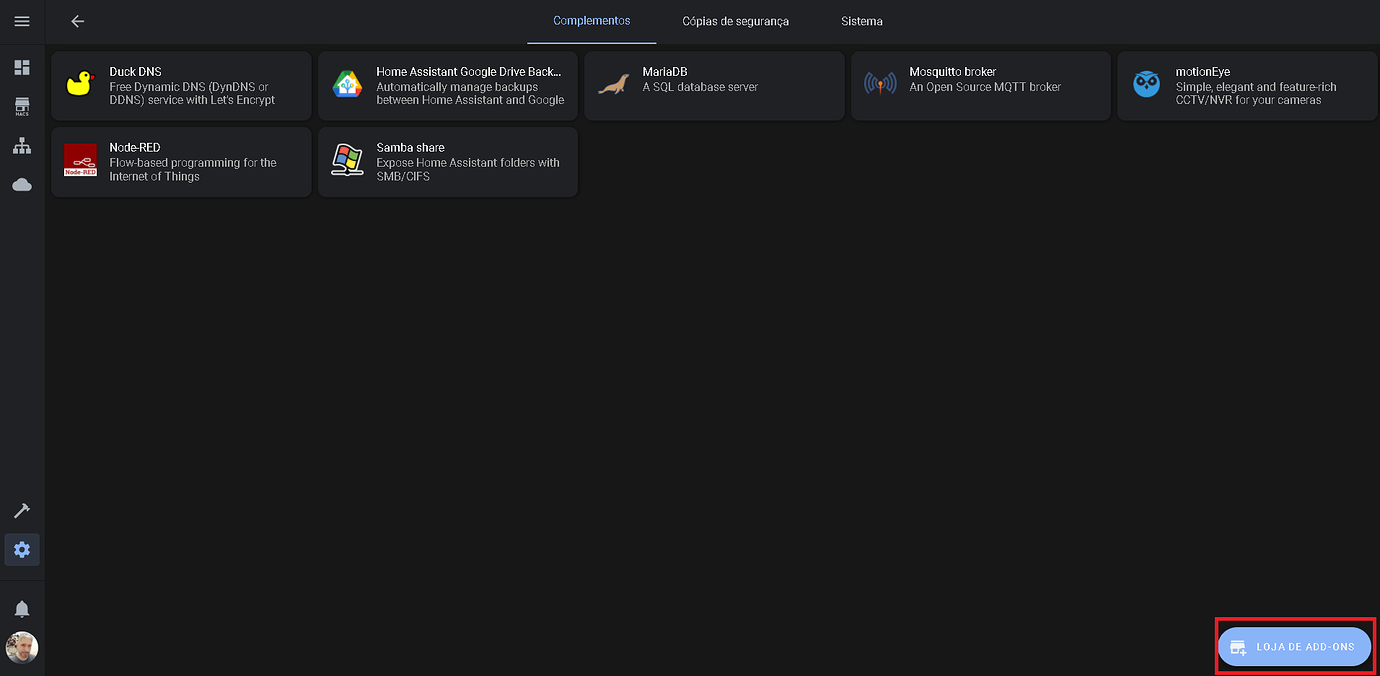
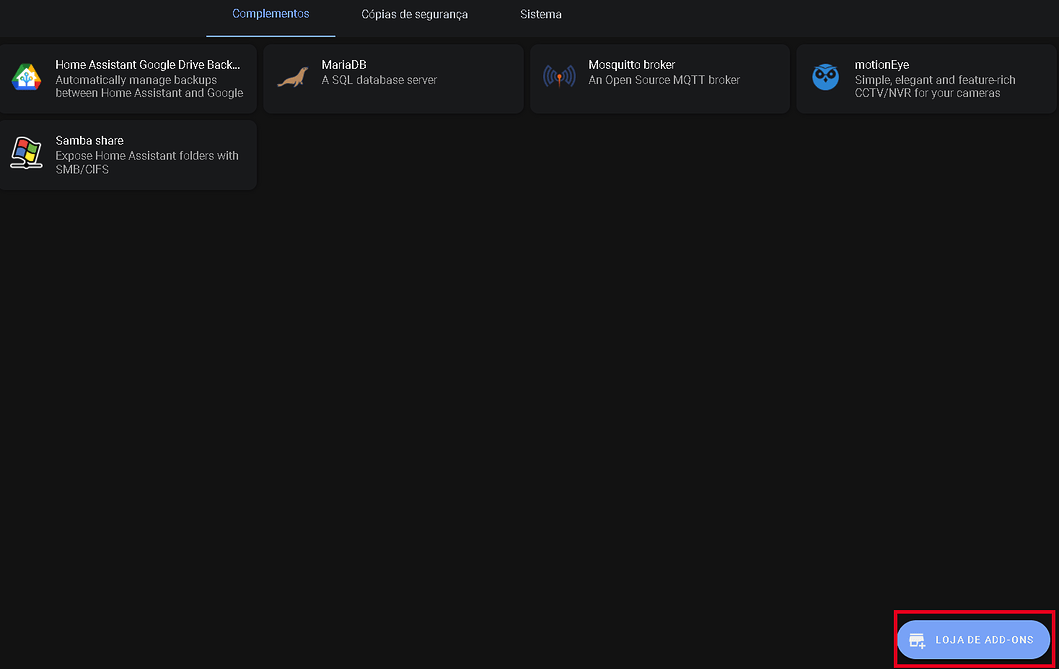
v41 img

diff --git a/DOCS.md b/DOCS.md
@@ -4,33 +4,33 @@ Before starting the Home Assistant installation, connect the your UPS USB port t
 
 To get started, go to **Settings**, click on **Add-ons, Backups and Supervisor**.
 
-<img src="https://github.com/dmslabsbr/smsUps/raw/master/img/i1.png" alt="Hass.io screen Add a new repository." width="500" /> 
+<img src="https://github.com/dmslabsbr/smsUps/raw/master/img/i1.png" alt="Hass.io screen Add a new repository." width="700" /> 
 
 Go to “**Add-on Store**” in the lower right corner.
 
-<img src="https://github.com/dmslabsbr/smsUps/raw/master/img/i2.png" alt="Hass.io screen Add a new repository." width="500" /> 
+<img src="https://github.com/dmslabsbr/smsUps/raw/master/img/i2.png" alt="Hass.io screen Add a new repository." width="700" /> 
 
 In the upper right corner menu choice **Repositories**.
 
-<img src="https://github.com/dmslabsbr/smsUps/raw/master/img/i3.png" alt="Hass.io screen Add a new repository." width="500" /> 
+<img src="https://github.com/dmslabsbr/smsUps/raw/master/img/i3.png" alt="Hass.io screen Add a new repository." width="700" /> 
 
 Fill with the *SmsUps* github address: https://github.com/dmslabsbr/smsUps/ and click **Add**.
 
-<img src="https://github.com/dmslabsbr/smsUps/raw/master/img/i4.png" alt="Hass.io screen Add a new repository." width="400" /> 
+<img src="https://github.com/dmslabsbr/smsUps/raw/master/img/i4.png" alt="Hass.io screen Add a new repository." width="700" /> 
 
 A new add-on will appear. Click on it.
 
-<img src="https://github.com/dmslabsbr/smsUps/raw/master/img/i5.png" alt="Hass.io screen Add a new repository." width="300" /> 
+<img src="https://github.com/dmslabsbr/smsUps/raw/master/img/i5.png" alt="Hass.io screen Add a new repository." width="400" /> 
 
 Click **Install**.
 
-<img src="https://github.com/dmslabsbr/smsUps/raw/master/img/i6.png" alt="Hass.io screen Add a new repository." width="400" /> 
+<img src="https://github.com/dmslabsbr/smsUps/raw/master/img/i6.png" alt="Hass.io screen Add a new repository." width="600" /> 
 
 After installation, if everything goes well, go to the **Configuration** option to configure before starting.
 
 
 
-<img src="https://github.com/dmslabsbr/smsUps/raw/master/img/i7.png" alt="Hass.io screen Add a new repository." width="400" /> 
+<img src="https://github.com/dmslabsbr/smsUps/raw/master/img/i7.png" alt="Hass.io screen Add a new repository." width="600" /> 
 
 **Before the 1st use you must configure the add-on, in the Configuration tab.**
 
@@ -47,7 +47,7 @@ After installation, if everything goes well, go to the **Configuration** option 
 - SHUTDOWN_CMD, commands used to shutdown the equipment. As there are differences between the systems, the add-on will try several options.
 
 
-<img src="https://github.com/dmslabsbr/smsUps/raw/master/img/i8.png" alt="Hass.io screen Add a new repository." width="500" /> 
+<img src="https://github.com/dmslabsbr/smsUps/raw/master/img/i8.png" alt="Hass.io screen Add a new repository." width="600" /> 
 
 - USE_SECRETS, setting it to **false**, the add-on will use this setting, if set to **true** it will use the setting in the *secrets.ini* file.
 
@@ -58,17 +58,17 @@ After installation, if everything goes well, go to the **Configuration** option 
 
 With everything configured and filled in, click Save.
 
-<img src="https://github.com/dmslabsbr/smsUps/raw/master/img/i9.png" alt="Hass.io screen Add a new repository." width="500" /> 
+<img src="https://github.com/dmslabsbr/smsUps/raw/master/img/i9.png" alt="Hass.io screen Add a new repository." width="600" /> 
 
 So, click on **Start**.
 
-<img src="https://github.com/dmslabsbr/smsUps/raw/master/img/ia1.png" alt="Hass.io screen Add a new repository." width="500" /> 
+<img src="https://github.com/dmslabsbr/smsUps/raw/master/img/ia1.png" alt="Hass.io screen Add a new repository." width="600" /> 
 
 ## Example:
 
-<img src="https://github.com/dmslabsbr/smsUps/raw/master/img/hass5.png" alt="Hass.io screen Add a new repository." width="200" /> 
+<img src="https://github.com/dmslabsbr/smsUps/raw/master/img/hass5.png" alt="Hass.io screen Add a new repository." width="300" /> 
 
-<img src="https://github.com/dmslabsbr/smsUps/raw/master/img/hass6.png" alt="Hass.io screen Add a new repository." width="200" /> 
+<img src="https://github.com/dmslabsbr/smsUps/raw/master/img/hass6.png" alt="Hass.io screen Add a new repository." width="300" /> 
 
 
 ### You can now use your UPS data in your Home Assistant.

diff --git a/README.md b/README.md
@@ -27,5 +27,5 @@ But you can use the application without using the Home Assistant. You just need 
 
 # Instructions for use outside Home Assistant
 
-<img align="center" src="https://github.com/dmslabsbr/smsUps/raw/master/img/hass.io.png" alt="" width="30" /> [Instructions without HASS](noHass.md)
+[Instructions without HASS](noHass.md)
 
